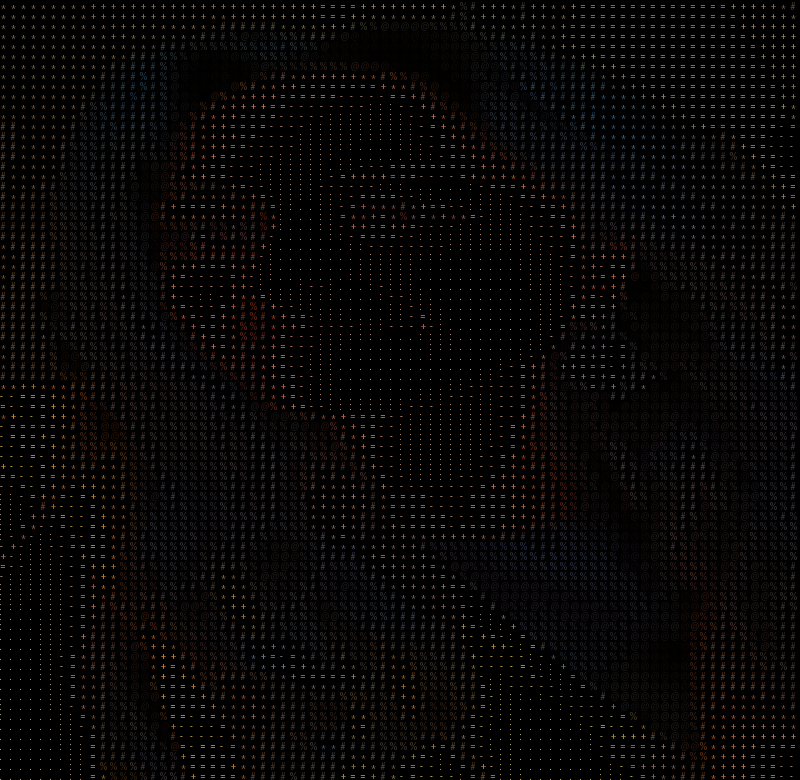
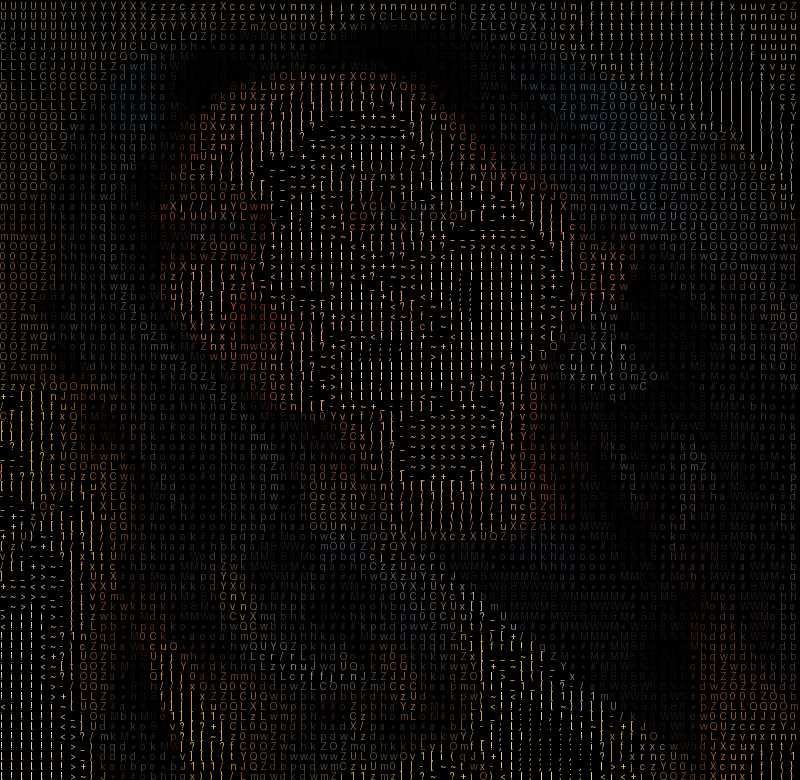
Added ASCII profile

diff --git a/generate_readme.py b/generate_readme.py
@@ -1,5 +1,7 @@
+# generate_readme.py
+
 import requests
-from datetime import datetime
+from datetime import datetime, timezone, timedelta
 from PIL import Image, ImageDraw, ImageFont
 
 # =====================================
@@ -13,32 +15,51 @@ IMAGE_PATH = "assets/profile.jpg"
 OUTPUT_IMAGE = "assets/ascii.png"
 
 ASCII_WIDTH = 80
-ASCII_CHARS = "@%#*+=-:. "
+
+ASCII_CHARS = """$@B%8&WM#*oahkbdpqwmZO0QLCJUYXzcvunxrjft/|)(1}{][?-_+~><i!lI;:,",^`'. """
 
 # =====================================
 # IMAGE → COLORED ASCII PNG
 # =====================================
 def generate_ascii_image():
-    img = Image.open(IMAGE_PATH)
-    img = img.resize((ASCII_WIDTH, int(ASCII_WIDTH * img.height / img.width * 0.55)))
+    try:
+        img = Image.open(IMAGE_PATH).convert("RGB")
+    except Exception as e:
+        print(f"❌ Failed to open image: {e}")
+        return
+
+    # maintain aspect ratio (terminal correction)
+    new_height = int(ASCII_WIDTH * img.height / img.width * 0.55)
+    img = img.resize((ASCII_WIDTH, new_height))
 
     width, height = img.size
-    pixels = img.load()
 
     font_size = 10
     font = ImageFont.load_default()
 
-    output_img = Image.new("RGB", (width * font_size, height * font_size), "black")
+    output_img = Image.new(
+        "RGB",
+        (width * font_size, height * font_size),
+        "black",
+    )
     draw = ImageDraw.Draw(output_img)
 
     for y in range(height):
         for x in range(width):
             r, g, b = img.getpixel((x, y))
-            gray = int((r + g + b) / 3)
-            char = ASCII_CHARS[gray * len(ASCII_CHARS) // 256]
-            draw.text((x * font_size, y * font_size), char, fill=(r, g, b), font=font)
+            gray = int(0.299 * r + 0.587 * g + 0.114 * b)
+            char = ASCII_CHARS[gray * (len(ASCII_CHARS) - 1) // 255]
+
+            draw.text(
+                (x * font_size, y * font_size),
+                char,
+                fill=(r, g, b),
+                font=font,
+            )
 
     output_img.save(OUTPUT_IMAGE)
+    print("✅ ASCII image generated.")
+
 
 # =====================================
 # AGE
@@ -48,6 +69,7 @@ def calculate_age():
     return today.year - BIRTHDATE.year - (
         (today.month, today.day) < (BIRTHDATE.month, BIRTHDATE.day)
     )
+
 
 # =====================================
 # GITHUB
@@ -62,9 +84,11 @@ def get_github_stats():
         return {
             "repos": user.get("public_repos", 0),
             "followers": user.get("followers", 0),
+            "following": user.get("following", 0),
         }
-    except:
-        return {"repos": "N/A", "followers": "N/A"}
+    except Exception:
+        return {"repos": "N/A", "followers": "N/A", "following": "N/A"}
+
 
 # =====================================
 # LEETCODE
@@ -86,25 +110,33 @@ def get_leetcode_stats():
         response = requests.post(
             "https://leetcode.com/graphql",
             json={"query": query, "variables": {"username": LEETCODE_USERNAME}},
+            timeout=15,
         )
+
         data = response.json()
-        return sum(x["count"] for x in data["data"]["matchedUser"]["submitStats"]["acSubmissionNum"])
-    except:
+        return sum(
+            x["count"]
+            for x in data["data"]["matchedUser"]["submitStats"]["acSubmissionNum"]
+        )
+    except Exception:
         return "N/A"
 
+
 # =====================================
-# README
+# README GENERATOR (COMPACT STYLE)
 # =====================================
 def generate_readme():
     age = calculate_age()
     gh = get_github_stats()
     lc = get_leetcode_stats()
-    last_updated = datetime.now().strftime("%d-%m-%Y")
+
+    ist = timezone(timedelta(hours=5, minutes=30))
+    last_updated = datetime.now(ist).strftime("%d-%m-%Y %I:%M:%S %p")
 
     return f"""
 <table>
 <tr>
-<td>
+<td width="340">
 
 <img src="assets/ascii.png" width="320"/>
 
@@ -113,20 +145,16 @@ def generate_readme():
 
 ### LOGHAMITHRA N
 
-- Age: {age}
-- OS: Debian 12 / Linux
-- IDE: VS Code  
+```bash
+OS: Linux
+Age: {age}
+IDE: Visual Studio Code
 
----
+GitHub Followers: {gh['followers']}
+GitHub Repos: {gh['repos']}
+LeetCode Solved: {lc}
 
-**GitHub**
-- Followers: {gh['followers']}
-- Repos: {gh['repos']}
-
-**LeetCode**
-- Solved: {lc}
-
-_Last updated: {last_updated}_
+Last Updated: {last_updated}
 
 </td>
 </tr>

diff --git a/README.md b/README.md
@@ -1,7 +1,7 @@
 
 <table>
 <tr>
-<td>
+<td width="340">
 
 <img src="assets/ascii.png" width="320"/>
 
@@ -10,20 +10,16 @@
 
 ### LOGHAMITHRA N
 
-- Age: 20
-- OS: Debian 12 / Linux
-- IDE: VS Code  
+```bash
+OS: Linux
+Age: 20
+IDE: Visual Studio Code
 
----
+GitHub Followers: 0
+GitHub Repos: 18
+LeetCode Solved: 184
 
-**GitHub**
-- Followers: 0
-- Repos: 18
-
-**LeetCode**
-- Solved: 184
-
-_Last updated: 23-02-2026_
+Last Updated: 23-02-2026 10:12:29 PM
 
 </td>
 </tr>
